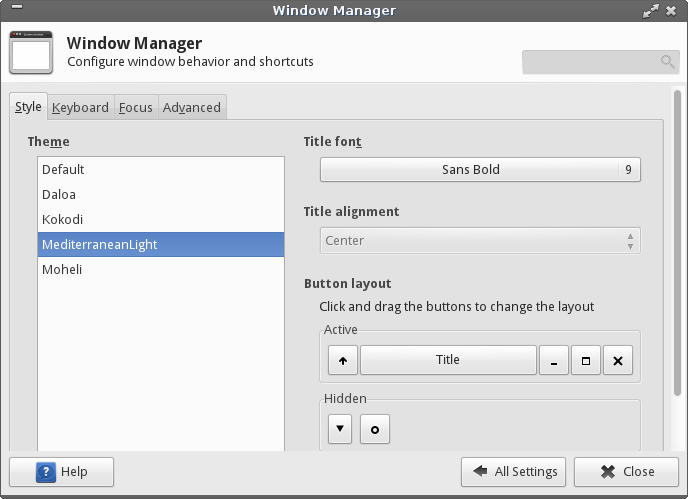
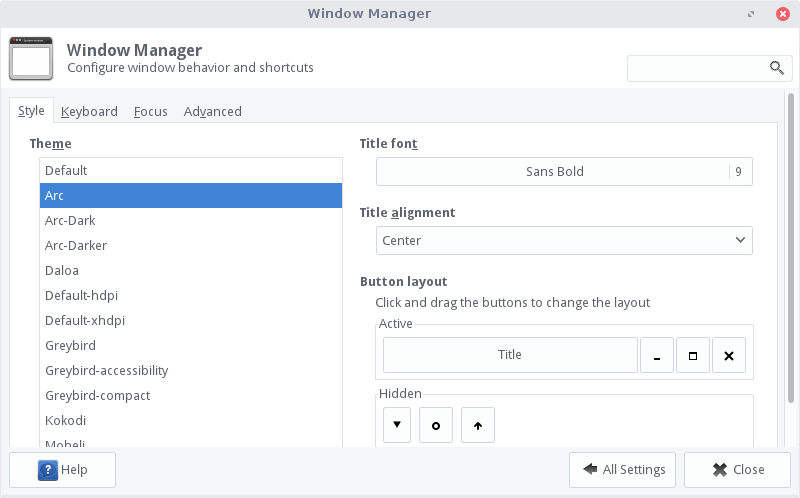
update Customize/Themes page

diff --git a/usr/share/doc/litemanual/customize.html b/usr/share/doc/litemanual/customize.html
@@ -263,7 +263,7 @@ i    {font-style: italic;}
 	      				<p><a href="#top">Top of page</a></p>
 
 	      				<h2><a name="themes">Themes &amp; Icon sets</a></h2>
-	      				<p>The default theme for Linux Lite is <b>Mediterranean White</b>. The default icon set is <b>Faenza</b>.
+	      				<p>The default theme for Linux Lite is <b>Arc</b>. The default icon set is <b>Faenza-Dark</b>.
 	         			There are some additional Theme and Icon sets in Linux Lite. Go to <b>Menu, Settings, Settings Manager</b>.
 		 			There are 2 main areas in the Settings Manager that take care of these settings - <b>Appearance</b> and <b>Window Manager</b>.</p>
 	      				<p><img src="images/customize/themes/themes-01.png"></p>
@@ -289,7 +289,7 @@ i    {font-style: italic;}
 	      				<p><a href="#top">Top of page</a></p>
 
 	      				<h2><a name="apply_theme">Applying a new Theme</a></h2>
-	      				<p>Head over to the <a href="http://xfce-look.org/index.php?xcontentmode=15x100x420" target="_blank">XFCE Look</a> website and choose theme of your liking.</p>
+	      				<p>Head over to the <a href="http://xfce-look.org/" target="_blank">XFCE Look</a> website and choose theme of your liking.</p>
 
 	      				<p><b>NOTE: Not all themes from there will work as you would expect. Please read all of the documentation before attempting to apply a new theme. Some make
 		 			installation easy via a PPA, which is a preferable method to the one shown here. Click <a href="software.html#ppa">here</a> for more information on how to install
@@ -330,7 +330,7 @@ i    {font-style: italic;}
 
 	      				<h2><a name="apply_icon">Applying a new Icon set</a></h2>
 	      				<p>Head over to the <a href="http://gnome-look.org/" target="_blank">Gnome Look</a> website and choose
-					an <a href="http://gnome-look.org/index.php?xcontentmode=121" target="_blank">Icon set</a> of your liking.</p>
+					an <a href="https://www.gnome-look.org/browse/cat/132/ord/latest/" target="_blank">Icon set</a> of your liking.</p>
 
 	      				<p><b>NOTE: Not all icon sets from there will work as you would expect. Please read all of the documentation before attempting to apply a new icon set. Some
 					may make installation easy via a PPA, which is a preferable method to the one shown here. Click <a href="software.html#ppa">here</a> for more information on how to
@@ -360,8 +360,8 @@ i    {font-style: italic;}
 
 	      				<p><a href="#top">Top of page</a></p>
 
-	      				<h2><a name="mouse_theme">Applying a new Mouse theme</a></h2>
-					<p>Head over to the <a href="http://xfce-look.org/index.php?xcontentmode=36" target="_blank">XFCE Look</a> website and choose theme of your liking.</p>
+	      				<h2><a name="mouse_theme">Applying a new Mouse (Cursors) theme</a></h2>
+					<p>Head over to the <a href="https://www.xfce-look.org/browse/cat/107/ord/latest/" target="_blank">XFCE Look</a> website and choose a <b>Cursors</b> theme of your liking.</p>
 
 	      				<p><b>NOTE: Not all themes from there will work as you would expect. Please read all of the documentation before attempting to apply a new theme. Some make
 		 			installation easy via a PPA, which is a preferable method to the one shown here. Click <a href="software.html#ppa">here</a> for more information on how to install
